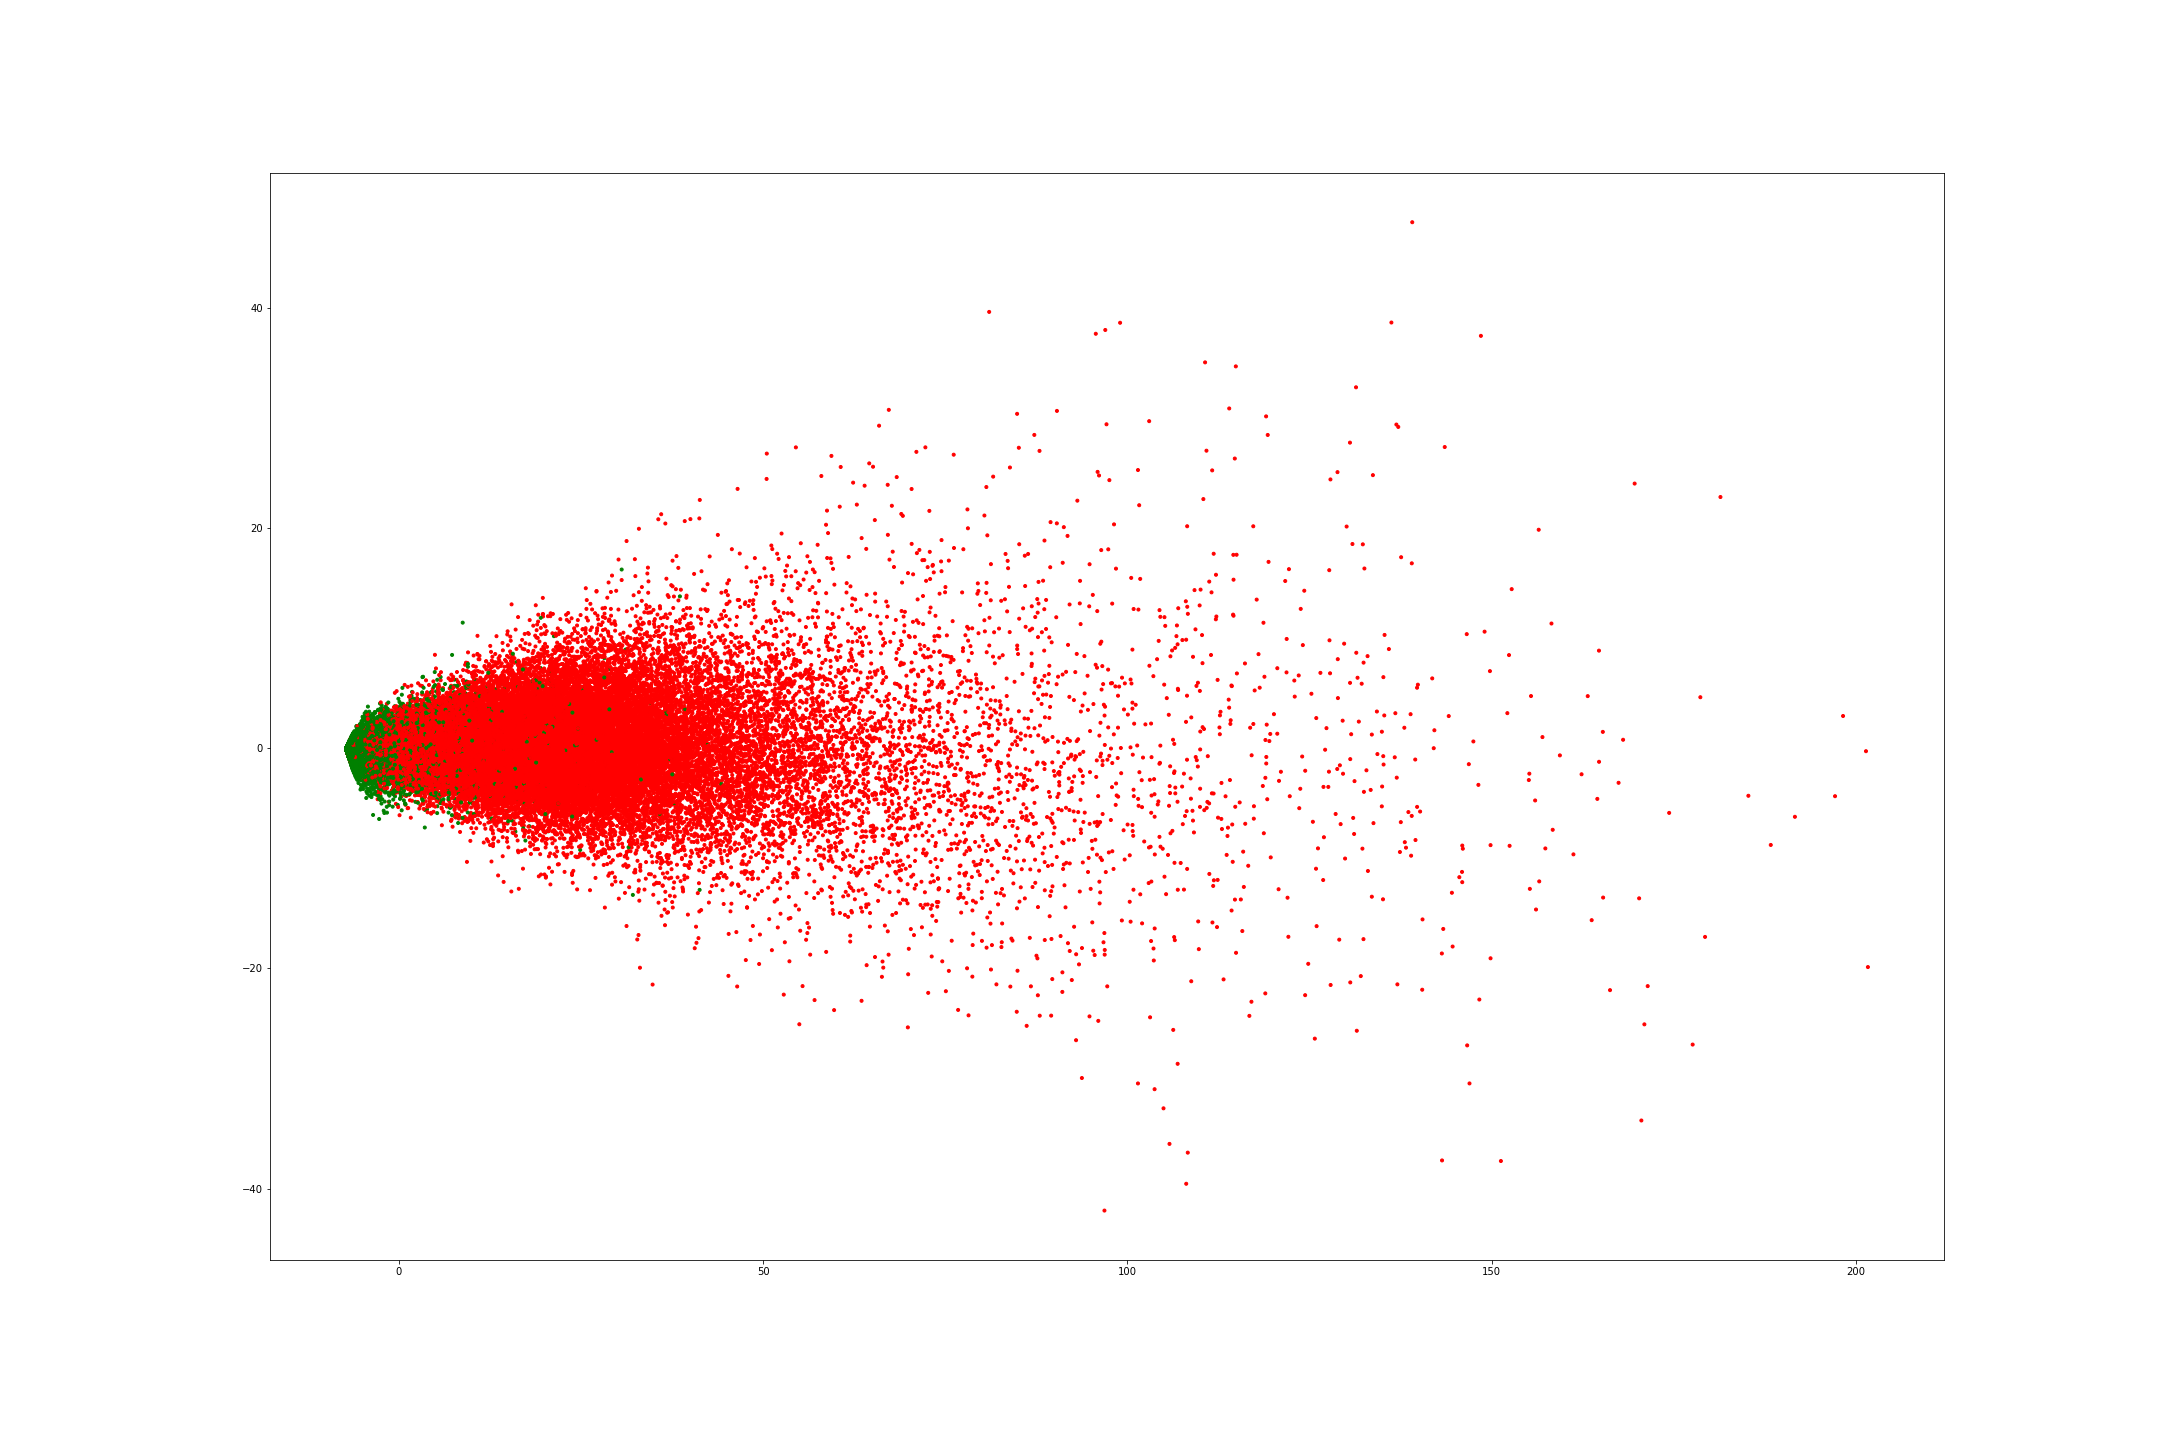
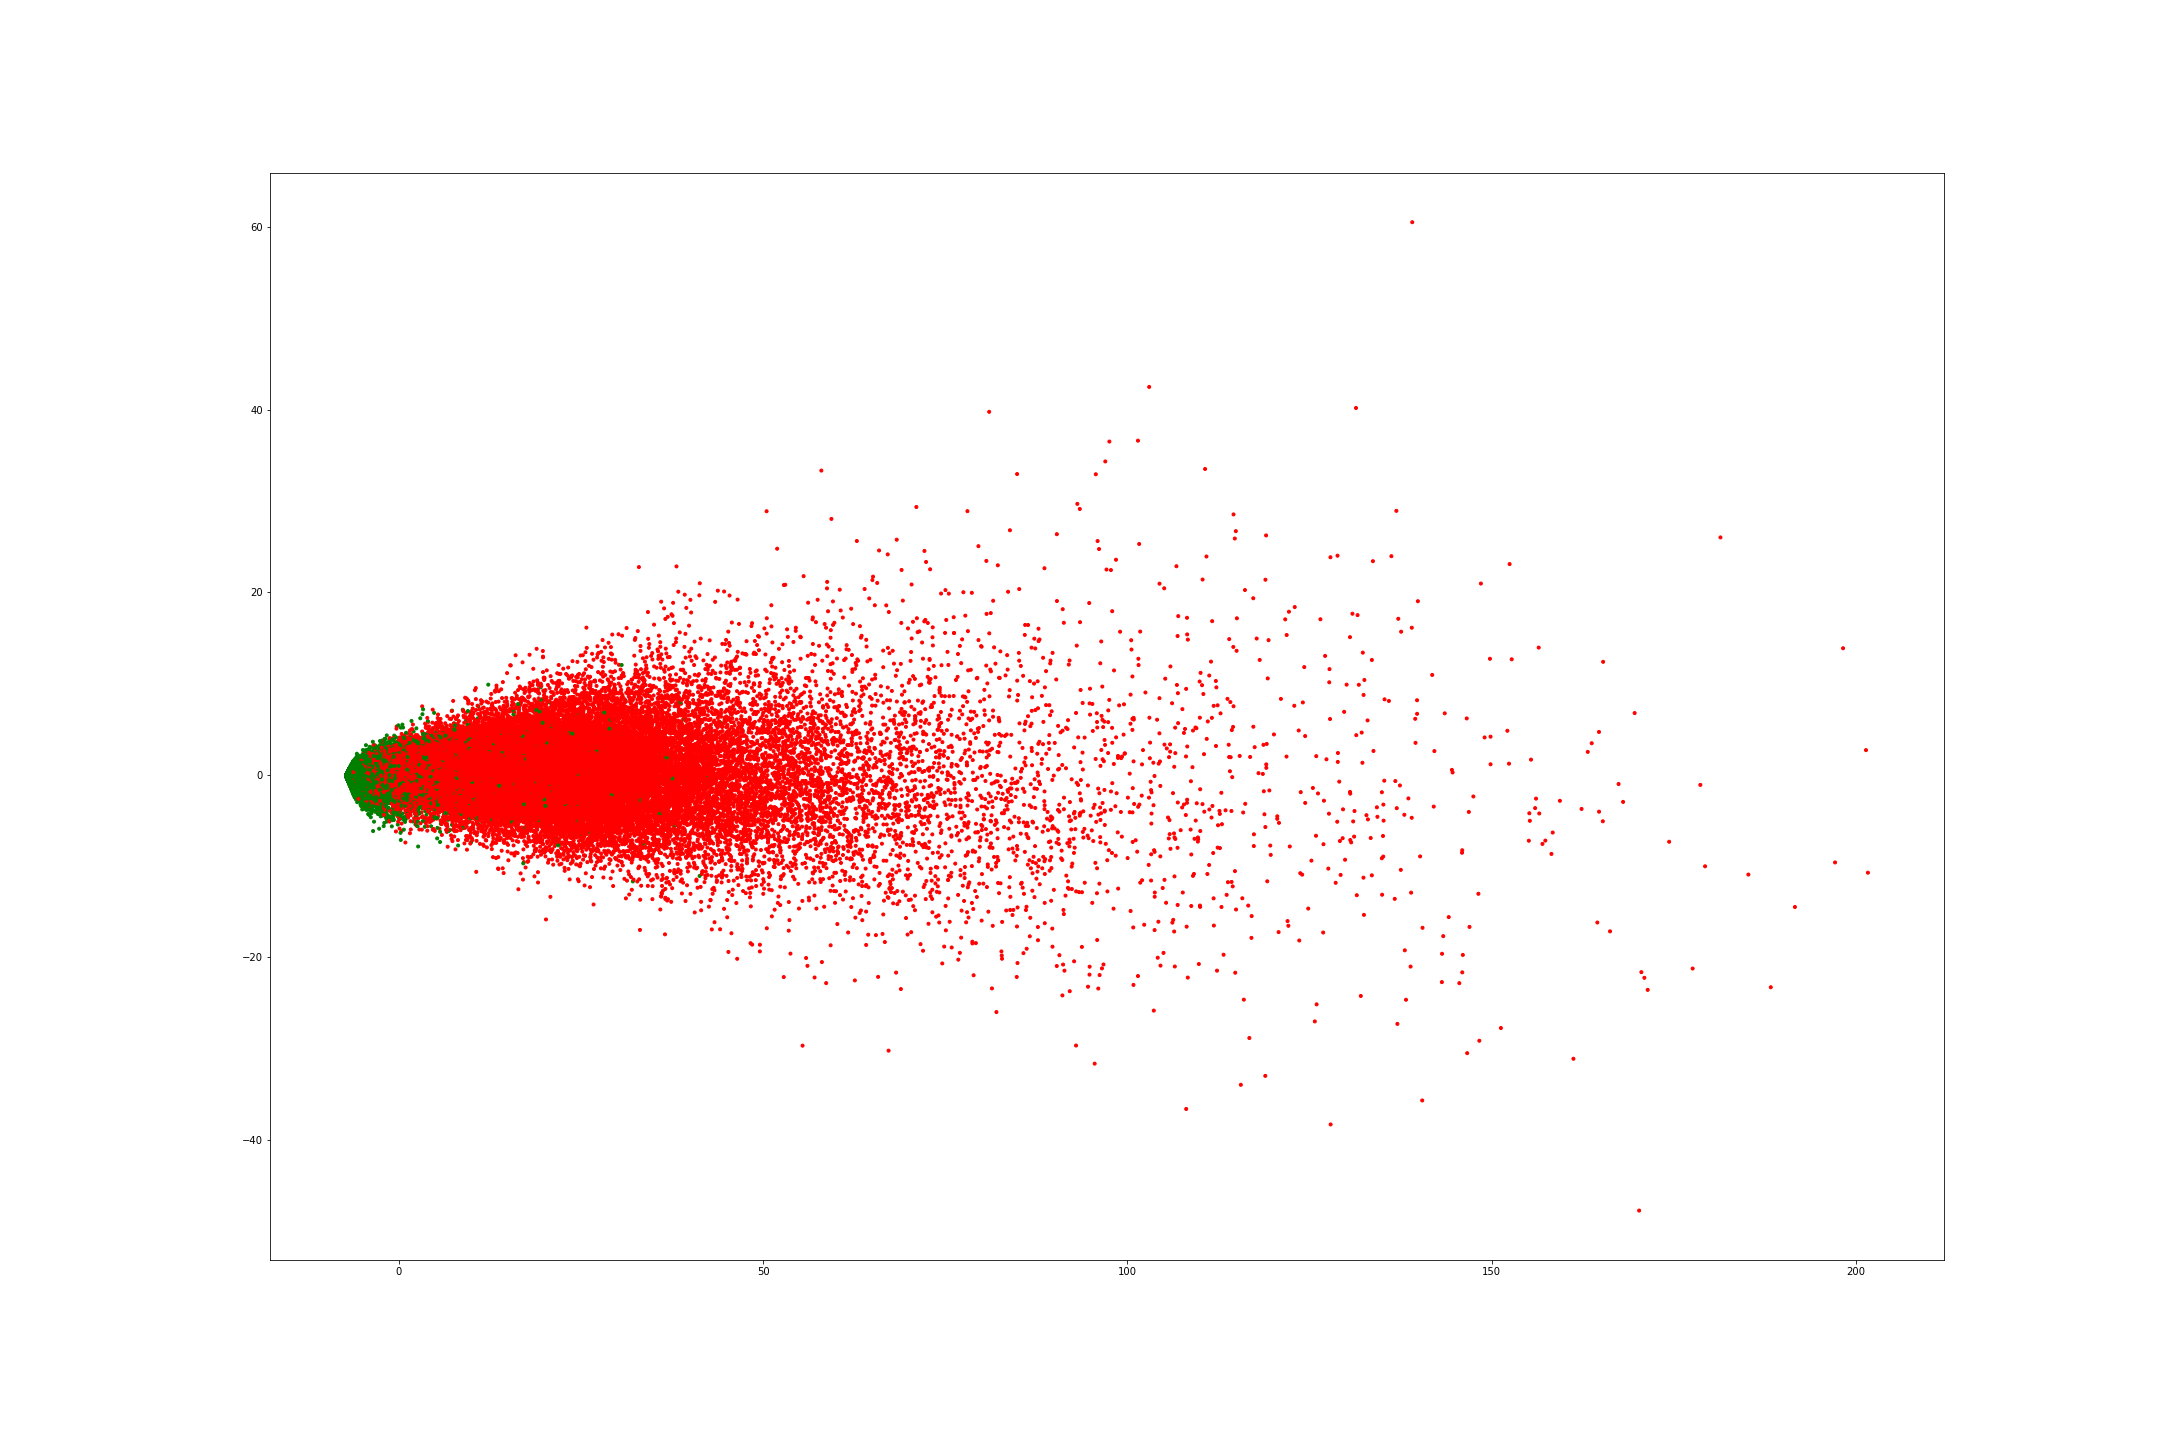
clustering with feature engineering

Changed region(s): [[0.1551, 0.375, 0.5894, 0.6875], [0.6204, 0.5312, 0.6514, 0.5938]]

diff --git a/Code/cluster_feature_eng.py b/Code/cluster_feature_eng.py
@@ -11,7 +11,8 @@ import pandas as pd
 import matplotlib.pyplot as plt
 import matplotlib
 from sklearn.decomposition import PCA
-from sklearn.cluster import KMeans
+from sklearn.cluster import KMeans, MeanShift
+import Test_Clustering
 
 # Reading data
 df = pd.read_csv('../cache/synthetic_data.csv', index_col=0)
@@ -93,7 +94,7 @@ def create_feature_matrix_all_gene(points,window_size=10,fill_missing="symmetry"
 total_size,features,all_labels = create_feature_matrix_all_gene(points)
 
 
-print("Visualization after a 2-PCA: ")
+print("Visualization with the true labels after a 2-PCA: ")
 num_genes = features.shape[0]
 pca = PCA(n_components=2)
 pca.fit(features[:num_genes])
@@ -102,13 +103,15 @@ print(pca.explained_variance_ratio_)
 print(pca.singular_values_) 
 
 features_red = pca.transform(features[:num_genes])
-plt.figure(figsize=(20,10))
+plt.figure(figsize=(15,10))
 plt.scatter(features_red[:,0],features_red[:,1],marker='.', c=all_labels[:num_genes], cmap=matplotlib.colors.ListedColormap(['red', 'green']))
+plt.legend()
 plt.show()
 
 
 plt.figure(figsize=(30,20))
 plt.scatter(features_red[:,0],features_red[:,1],marker='.', c=all_labels[:num_genes], cmap=matplotlib.colors.ListedColormap(['red', 'green']))
+plt.legend()
 plt.savefig("../figure/cluster_2_pca.png")
 plt.close()
 
@@ -125,7 +128,9 @@ features_eng = np.concatenate([features_eng,max_expression],axis=1)
 features_eng = np.concatenate([features_eng,num_zero_expression],axis=1)
 
 
-print("Visualization after a 2-PCA and Feature Engineering: ")
+
+# PCA on Features Engineered
+print("Visualization with the true labels after a 2-PCA and Feature Engineering: ")
 num_genes = features_eng.shape[0]
 pca = PCA(n_components=2)
 pca.fit(features_eng[:num_genes])
@@ -144,7 +149,9 @@ plt.savefig("../figure/cluster_2_pca_with_fe.png")
 plt.close()
 
 
-# Clustering
+
+
+# Clustering - Kmeans
 kmeans = KMeans(n_clusters=2, random_state=0).fit(features_eng_red)
 kmeans.labels_
 kmeans.cluster_centers_
@@ -153,22 +160,29 @@ labels_predict = 1-kmeans.labels_
 
 
 features_eng_red = pca.transform(features_eng[:num_genes])
+print("Visualization with the predicted labels after a 2-PCA and Feature Engineering: ")
 plt.figure(figsize=(20,10))
 plt.scatter(features_eng_red[:,0],features_eng_red[:,1],marker='.', c=labels_predict[:num_genes], cmap=matplotlib.colors.ListedColormap(['red', 'green']))
 plt.show()
 
+plt.figure(figsize=(30,20))
+plt.scatter(features_eng_red[:,0],features_eng_red[:,1],marker='.', c=labels_predict[:num_genes], cmap=matplotlib.colors.ListedColormap(['red', 'green']))
+plt.savefig("../figure/k_means_2_pca_with_fe.png")
+plt.close()
+
+
+
+# Accuracy
 labels_predict.shape
-all_labels[all_labels==labels_predict].shape[0]/all_labels.shape[0]
+print("Accuracy: ",all_labels[all_labels==labels_predict].shape[0]/all_labels.shape[0])
 
-#Sandbox
+TPR = all_labels[(all_labels==1.) & (all_labels ==labels_predict)].shape[0]/(all_labels[(all_labels==1.) & (all_labels ==labels_predict)].shape[0]+all_labels[(all_labels==1.) & (labels_predict ==0.)].shape[0])
+print("TPR: ",TPR)
+TNR = all_labels[(all_labels==0.) & (all_labels ==labels_predict)].shape[0]/(all_labels[(all_labels==0.) & (all_labels ==labels_predict)].shape[0]+all_labels[(all_labels==0.) & (labels_predict==1)].shape[0])
+print("TNR: ",TNR)
+acc= (all_labels[(all_labels==1.) & (all_labels ==labels_predict)].shape[0]+all_labels[(all_labels==0.) & (all_labels ==labels_predict)].shape[0])/(all_labels[(all_labels==1.) & (all_labels ==labels_predict)].shape[0]+all_labels[(all_labels==1.) & (labels_predict ==0.)].shape[0]+all_labels[(all_labels==0.) & (all_labels ==labels_predict)].shape[0]+all_labels[(all_labels==0.) & (labels_predict==1)].shape[0])
+print("Accuracy : ",acc)
 
-"""
-np.argwhere(np.isnan(features))
 
-for i in range(366,500):
-    #gene =146
-    s_test, features_test, labels_test = create_feature_matrix_per_gene(points,i,10,"symmetry")
-    if( np.argwhere(np.isnan(features_test)).shape[0]>0):
-        print(i)
-        break
-"""
+
+
